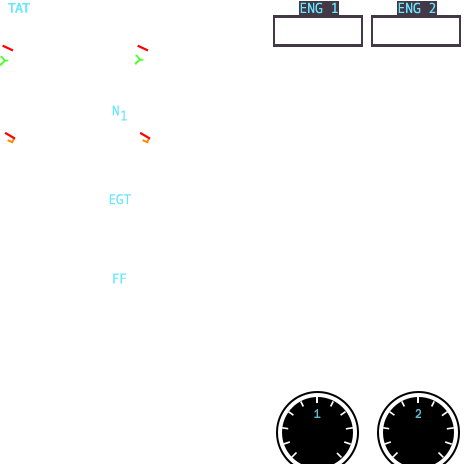
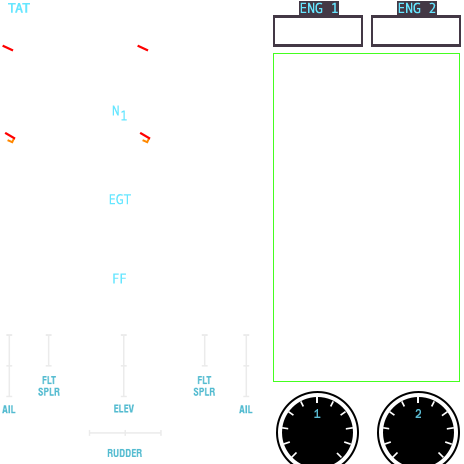
修改图片

diff --git a/PlaneInstrumentControlLibrary/B737EICAS/B737EICAS.cs b/PlaneInstrumentControlLibrary/B737EICAS/B737EICAS.cs
@@ -31,7 +31,6 @@ namespace PlaneInstrumentControlLibrary.B737EICAS
         Bitmap eng_fail_2 = new Bitmap(B737EICASResource.ENG_FAIL_2);
         Bitmap low_vol_1 = new Bitmap(B737EICASResource.LOW_VOL_1);
         Bitmap low_vol_2 = new Bitmap(B737EICASResource.LOE_VOL_2);
-        Bitmap textRetan = new Bitmap(B737EICASResource.textRetangle);
 
         SolidBrush drawBrush = new SolidBrush(Color.White);
         SolidBrush infoBrush = new SolidBrush(Color.FromArgb(115, 255, 87));
@@ -91,7 +90,7 @@ namespace PlaneInstrumentControlLibrary.B737EICAS
             pe.Graphics.DrawString(volte1.ToString("f0").PadLeft(3, '0'), altFont, drawBrush, 302 * scale, 430 * scale);
             pe.Graphics.DrawString(volte2.ToString("f0").PadLeft(3, '0'), altFont, drawBrush, 402 * scale, 430 * scale);
 
-            pe.Graphics.DrawImage(textRetan, 0, 0, textRetan.Width * scale, textRetan.Height * scale);
+            //pe.Graphics.DrawImage(textRetan, 0, 0, textRetan.Width * scale, textRetan.Height * scale);
             int yPosition = 60;
             foreach(var item in texts)
             {

diff --git a/PlaneInstrumentControlLibrary/B737EICAS/B737EICASResource.Designer.cs b/PlaneInstrumentControlLibrary/B737EICAS/B737EICASResource.Designer.cs
@@ -153,16 +153,6 @@ namespace PlaneInstrumentControlLibrary.B737EICAS {
         /// <summary>
         ///   查找 System.Drawing.Bitmap 类型的本地化资源。
         /// </summary>
-        internal static System.Drawing.Bitmap textRetangle {
-            get {
-                object obj = ResourceManager.GetObject("textRetangle", resourceCulture);
-                return ((System.Drawing.Bitmap)(obj));
-            }
-        }
-        
-        /// <summary>
-        ///   查找 System.Drawing.Bitmap 类型的本地化资源。
-        /// </summary>
         internal static System.Drawing.Bitmap top {
             get {
                 object obj = ResourceManager.GetObject("top", resourceCulture);
